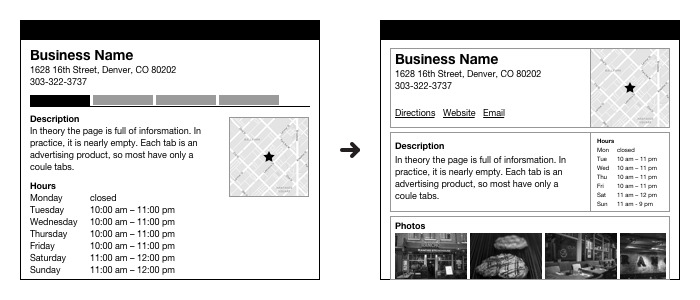
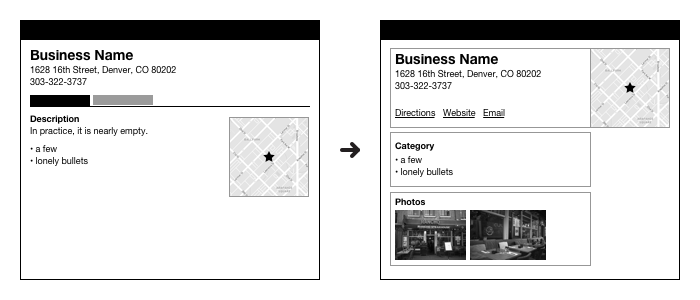
improved details piece

diff --git a/ux-design/index.html b/ux-design/index.html
@@ -37,7 +37,7 @@ description: Featured UX design projects from my career
 			<img src="/img/ux/phys-loc-teaser.png">
 		</a>
 		
-		<h2><a href="yellow-page-details">Empty Details Pages</a></h2>
+		<h2><a href="yellow-page-details">Sparse Details Pages</a></h2>
 		<p class="meta">Yellow Pages, 2009</p>
 		<p>A redesign of a problematic page </p>
 		<a href="yellow-page-details" class="ux-img">

diff --git a/ux-design/yellow-page-details.md b/ux-design/yellow-page-details.md
@@ -1,6 +1,6 @@
 ---
 layout: ux-detail
-title:  Empty Details Pages
+title:  Sparse Details Pages
 description: A redesign of a problematic page
 project-info: 'Yellow Pages, 2009'
 key-image: details-teaser.png
@@ -19,15 +19,20 @@ Local Matters had clients in New Zealand, Austria, the Czech Republic, Denmark, 
 
 The way these directory business work is that they sell adds to local businesses. They have some basic information on every business, but they have a lot more info about their advertisers. So we had a situation where some businesses had a lot of content and some had very little. A successful design would accommodate this range.
 
-Time and again, I’d meet with clients when designing their details pages and they’d want to use tabs to organize the content. This made some sense. Tabs are a well understood navigation pattern, and they were pretty visible on the pages. But beyond the basic information about the business –the name, address and phone number– most of the other content was sold as an advertising product, like photos, or only collected from advertisers, like hours of operation. 
+Time and again, I’d meet with clients when designing their details pages and they’d want to use tabs to organize the content. This made sense. Tabs are a well understood navigation pattern, and they were pretty visible on the pages. 
 
-And they had tiers of advertisers. The top tier would have a bunch of advertising content to show. The next tier down would have less.
+<div class="ux-img">
+	<img src="/img/ux/details-tabs-full.png" class="">
+</div>
+
+But beyond the basic information about the business –the name, address and phone number– most of the other content was sold as an advertising product, like photos, or only collected from advertisers, like hours of operation.  And they had tiers of advertisers. The top tier would have a bunch of advertising content to show. The next tier down would have less.
+
+Using tabs worked OK for the top tier. Their pages were full of content. But as we looked at lower tiers and the free listings, the tabs would take a small amount of content and spread it over a several pages. The result was most pages looked pretty sparse. 
 
 <div class="ux-img">
 	<img src="/img/ux/details-tabs.png" class="">
 </div>
 
-Using tabs worked OK for the top tier. Their pages were full of content. But as we looked at lower tiers and the free listings, the tabs would take a small amount of content and spread it over a several pages. The result was most pages looked pretty sparse. 
 
 However, the clients would tend to fixate on the top tier. These were their best customers. They would tend to discount how uncommon these were.
 

diff --git a/ux-design/tokens.md b/ux-design/tokens.md
@@ -132,7 +132,7 @@ In researching this, I found some old blog posts talking about tokens. [Here’s
 Oh, and the icons for Tokens and Six Degrees were created by [Felix Sockwell][felix]. His portfolio site doesn’t display very well until you resize your browser window. But he has a lot of cool work, most of it in the same, single-line-drawing style as the tokens icons.
 
 {% include ux-nav.md 
-	prev-text="Empty Details Pages"
+	prev-text="Sparse Details Pages"
 	prev-link="yellow-page-details"
 	next-text="Nationwide Insurance Agent Locator"
 	next-link="nationwide-locator"

diff --git a/ux-design/physician-locator.md b/ux-design/physician-locator.md
@@ -25,7 +25,7 @@ The original ask was to create both a mobile application and a resposive site. D
 {% include ux-nav.md 
     prev-text="Map Pin Interaction"
     prev-link="map-pins"
-    next-text="Empty Details Pages"
+    next-text="Sparse Details Pages"
     next-link="yellow-page-details"
  %}
 
